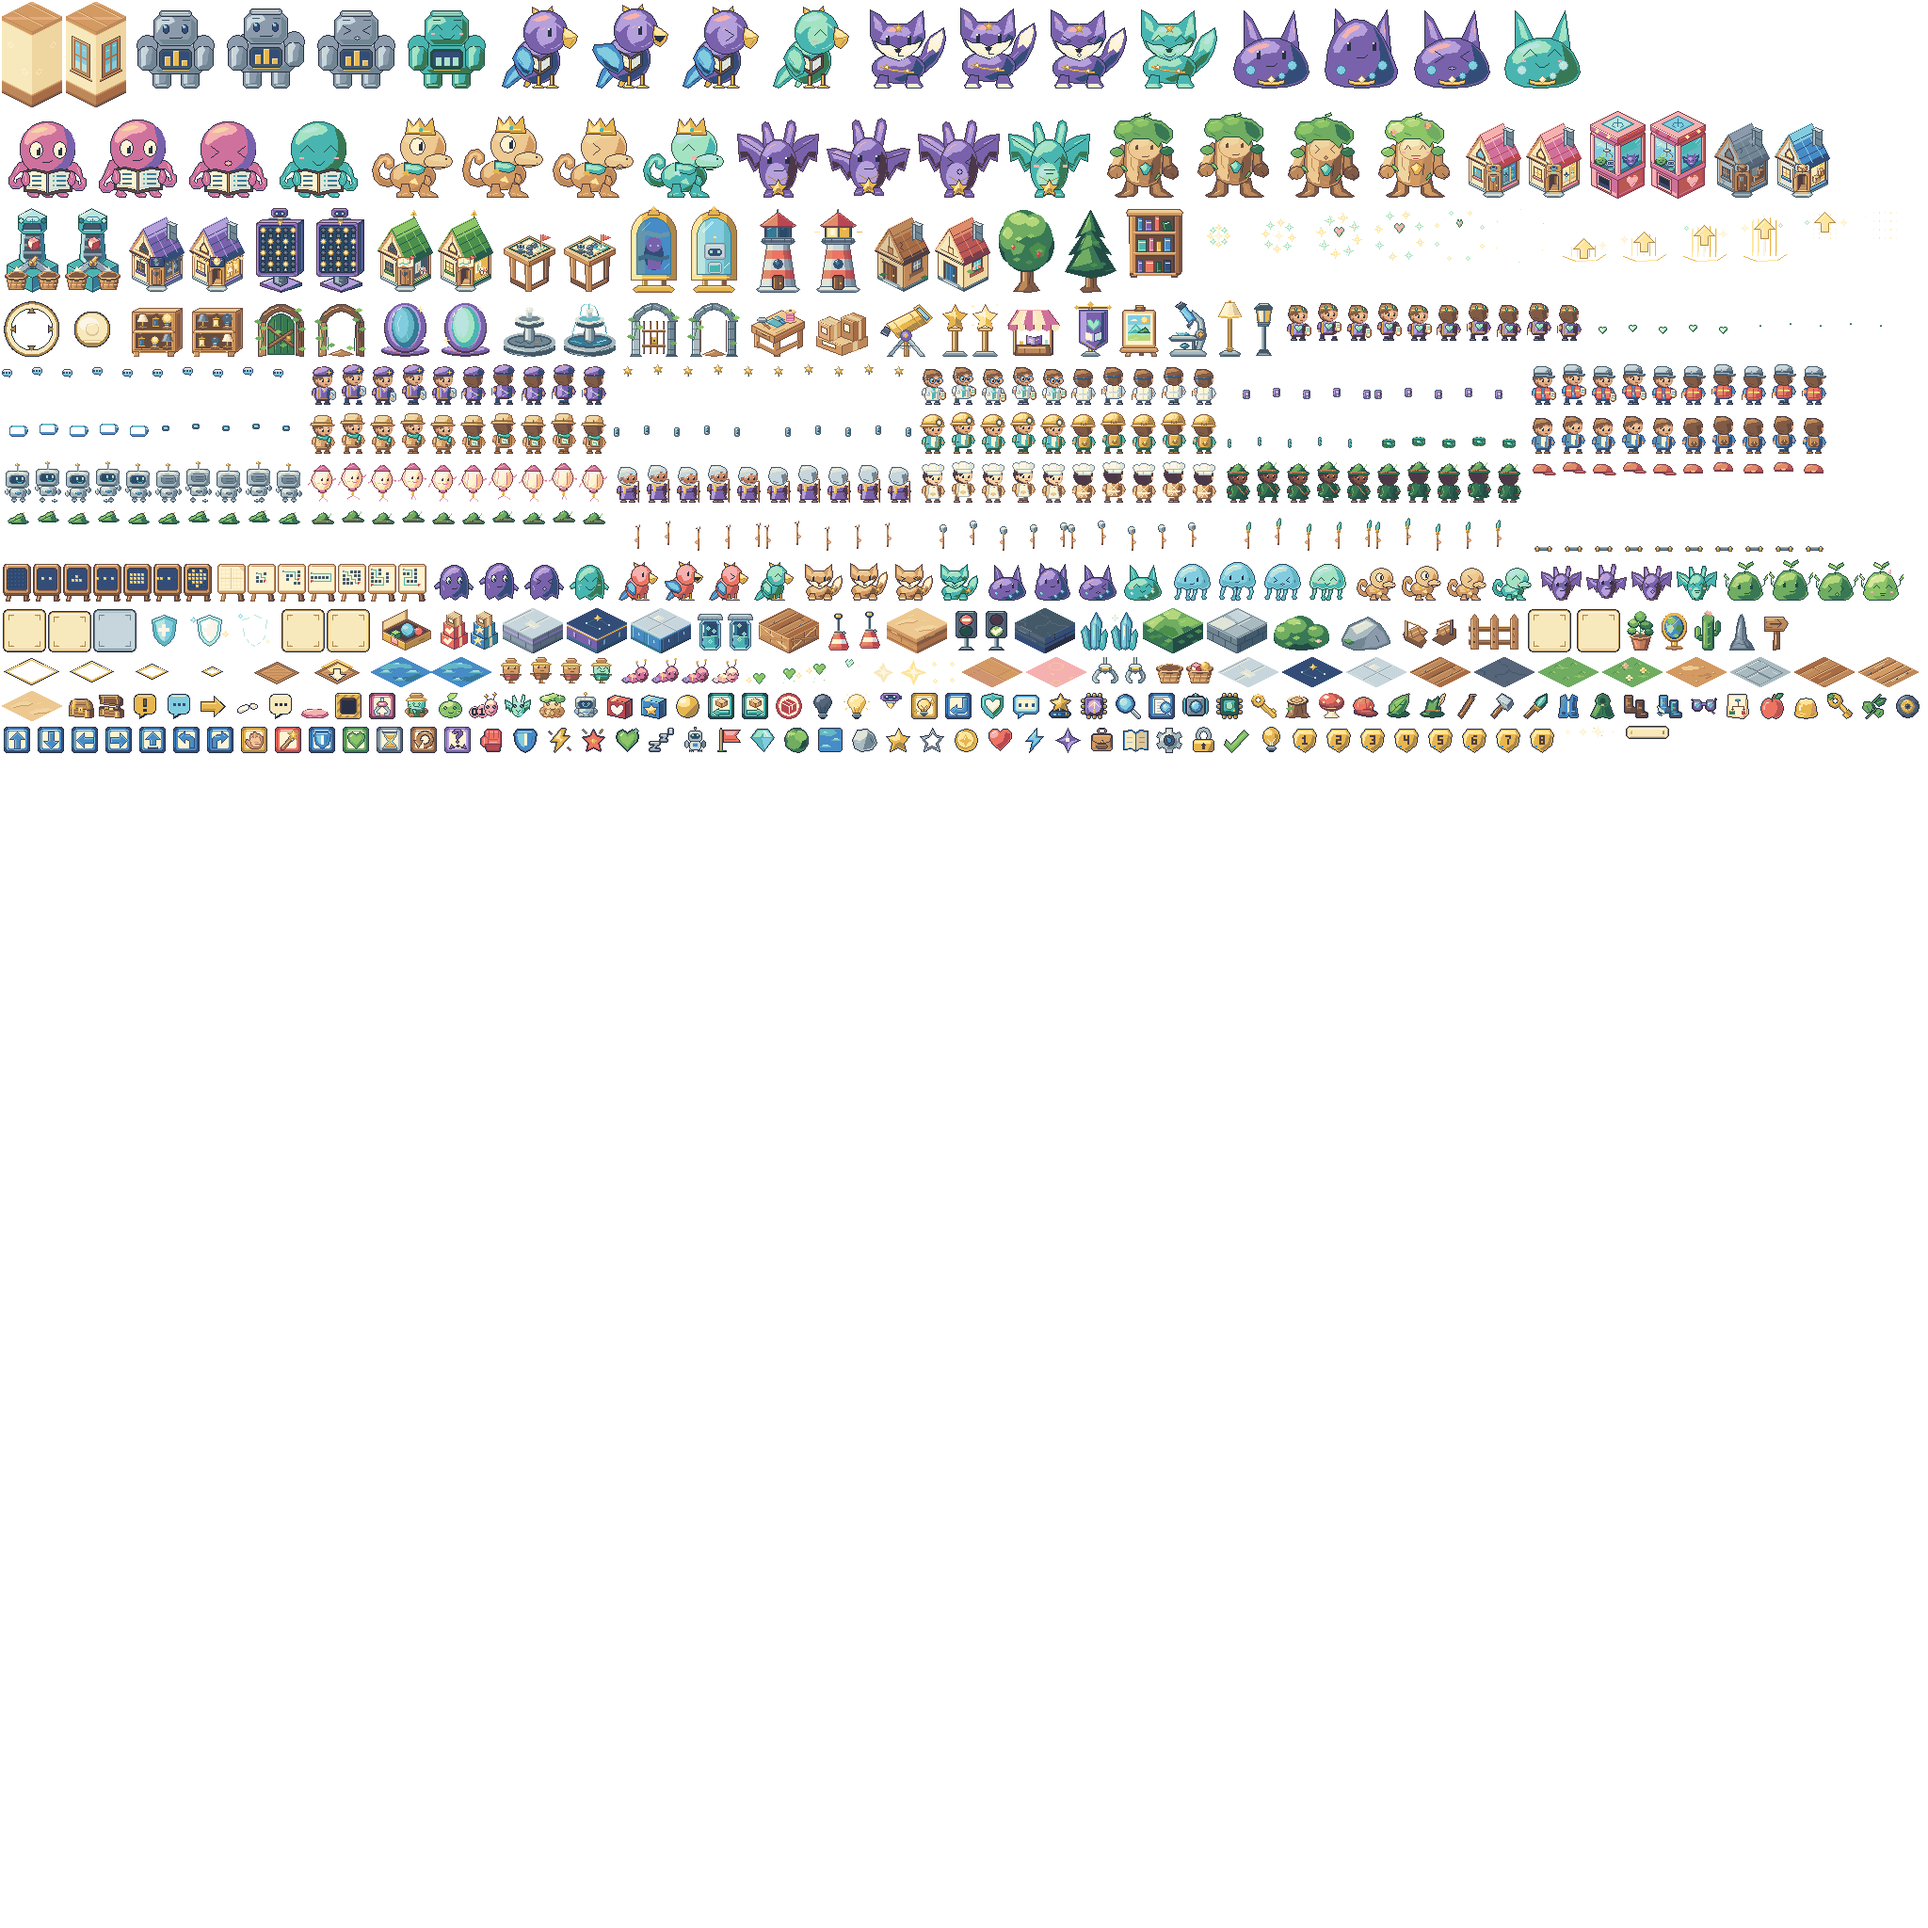
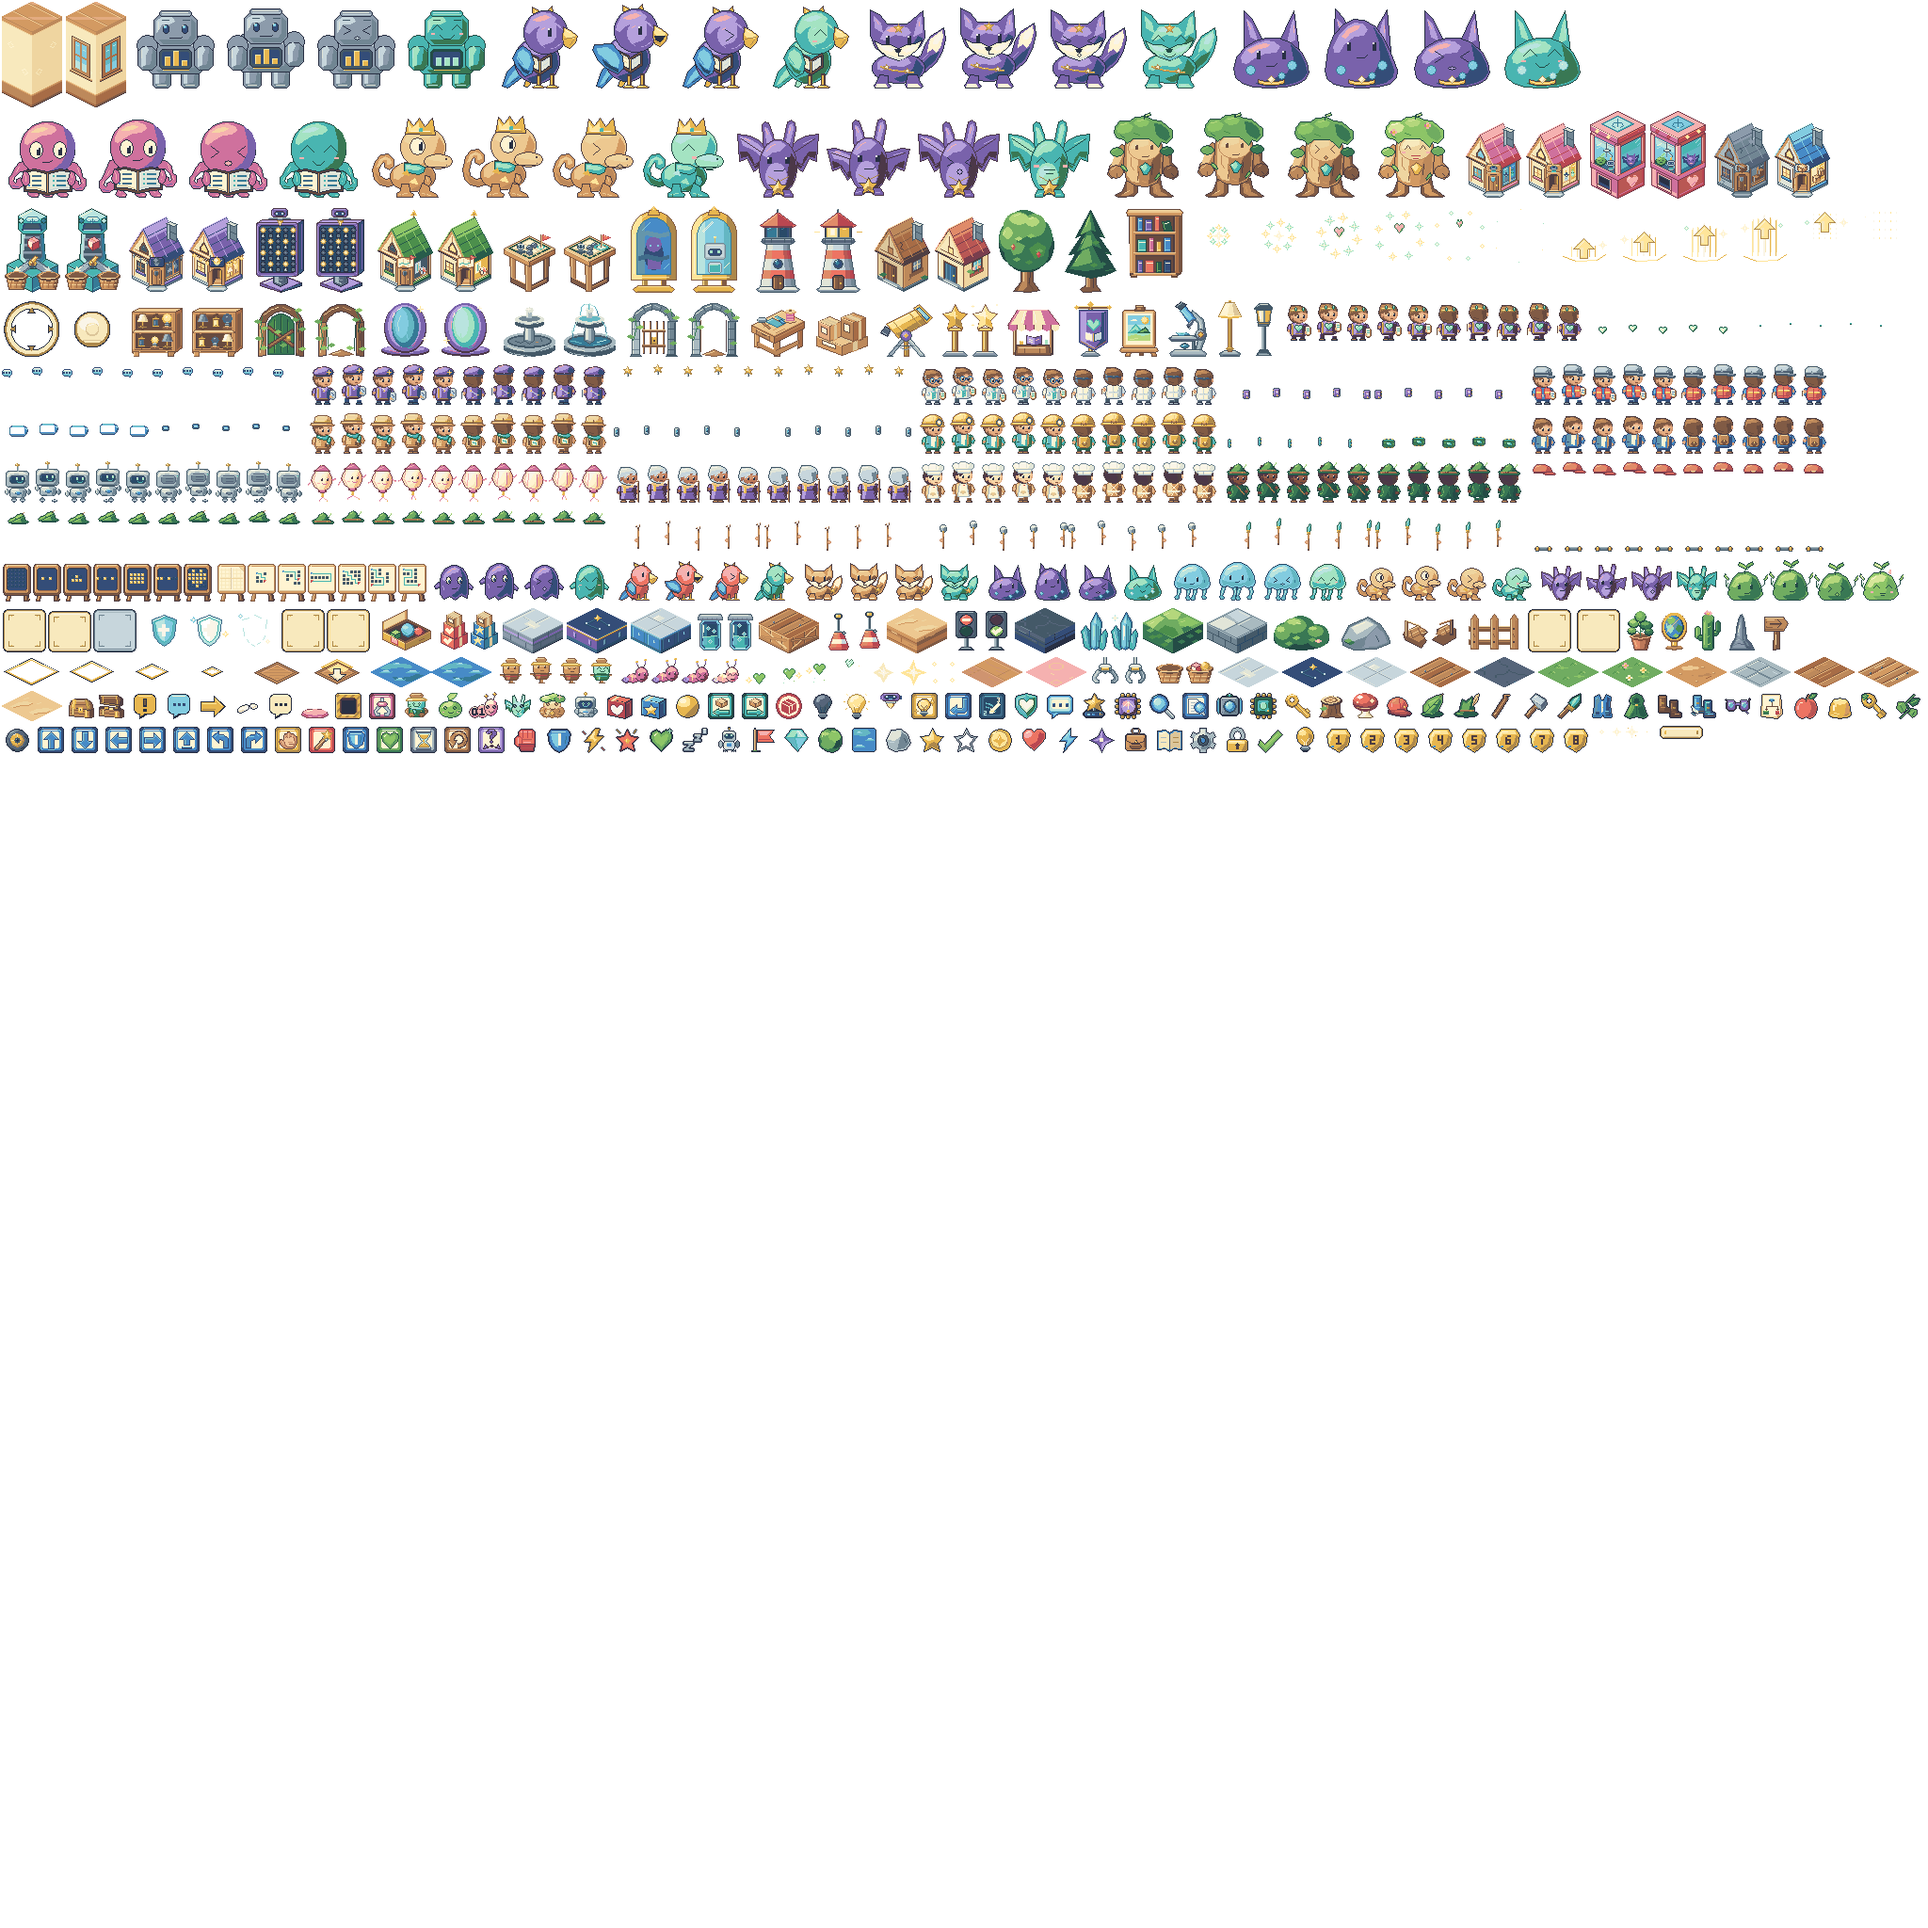
C18-2: 물결 따라가기 카드 2배 그림

Changed region(s): [[0.125, 0.3438, 1.0, 0.4062], [0.0, 0.375, 0.0312, 0.4062]]

diff --git a/docs/tasks/codex-18-progress.md b/docs/tasks/codex-18-progress.md
@@ -28,3 +28,31 @@
 재생성: `node assets-src/tools/draw-c18-1-house.mjs` → `node assets-src/tools/draw-c18-1-furniture.mjs` → `node assets-src/tools/draw-c18-1-maps.mjs` → `npm run assets` → `node assets-src/tools/preview-c18.mjs 1` → `node assets-src/tools/check-c18.mjs 1`.
 
 브라우저 증거: `C:/Users/tbose/.codex/visualizations/2026/11/04/01a1a6c9-8349-7712-84d3-50667c5011e1/output/playwright/`의 `c18-stage1-*`, `c18-gallery-1-result.txt`.
+
+## 2단계 — 물결 따라가기 카드
+
+- 완료 **1키·1프레임** `icon-card-followWave` 32×32·density 2. C18 합계 **5키·13프레임**, 남은 키 없음.
+- 기존 카드와 같은 2px 여백·둥근 테두리에 짙은 바다색 속면을 사용했어요. 물결의 중심인 작은 2 쪽으로 큰 3에서 화살표가 향해요. 숫자가 작아도 두 고리와 굵은 밝은 화살표가 남아요.
+- 팔레트에 없는 편집기 색 `#1f6f8b` 대신 원본에는 기존 `#294a68`, `#406c8a`, `#367a96`, `#64b7c3`를 사용했어요. 기존 화살표의 파랑/밝은 속면, 보내기의 청록/상자, 켜기의 노랑/전구와 구분해요. 추가 색 요청 없음.
+- `npm run assets`, `npm test` **27파일·359개**, `npm run build`, `node assets-src/tools/check-c18.mjs 2` 통과. 새 5키 원본→PNG **37,888픽셀**, 전체 PNG→아틀라스 **1,345,280픽셀 일치**. 지도 122칸/최단 거리 검사와 발밑 투명 검사도 유지해요.
+- 전체 **232키·586프레임 모두 density 2**, 원본 누락 0, 팔레트 64색, 아틀라스 **2048×2048** 한 장. 갤러리 651이미지의 크기/원점 오류 0, 페이지 오류 0.
+- 비교판 `assets-preview/compare-18-2.png`: 왼쪽 임시/오른쪽 새 그림, 실제 블록 바탕색 4종 위 화살표·보내기·켜기·물결 카드의 64px/28px 나란히 비교. 1단계 방 비교판도 그대로 있어요. 모두 커밋 제외 경로예요.
+- 실제 편집기 버튼으로 **6판 모두 별 3개 성공** 확인. 1·2판 화살표 4/6개, 3판 오른쪽5·아래2·왼쪽5 반복(6블록), 4판 오른쪽·아래 4회 반복(3블록), 5판 물결 따라가기 10회 반복(2블록), 6판 12회 반복(2블록)으로 미로 3개 모두 성공했어요.
+- 실제 성공으로 벽 지도 1~6프레임과 `물결 길잡이` 칭호를 얻었어요. 새로고침·이어하기 뒤 6판 별3개/지도 플래그/칭호 복원, 경험치·코인 0 유지 확인.
+- 해금은 지시서가 허용한 메모리 칩·예측 모듈을 5176 로컬 체험에 넣었어요. 학습 미션을 자연 진행하거나 학급 서버 저장을 검증한 것은 아니에요.
+- 5·6판 × 320/390/1360px **6조합**: 카드 실제28×28, 원본32×32, 배경 `rgb(31,111,139)`, 그림 로드 정상, 문서 가로 넘침 0. 좁은 화면에서 카드 행은 줄바꿈하고 세로 스크롤해요. 실물 휴대폰 검증은 아니에요. 페이지 오류 0.
+- 첫 자동화 실행은 버튼 이름을 `오른쪽`으로 찾다가 시간 초과했어요. 실제 UI 이름 `오른쪽으로` 등으로 자동화만 고친 뒤 6판 검사가 모두 통과했어요. 제품 코드는 수정하지 않았어요.
+- Claude 확인: 28px에서 두 물결 고리와 작은 숫자의 가독성, 기존 보내기 카드와 구분, 실제 휴대폰에서 지도 경로/탁자 물결 식별. 숫자보다 고리와 방향을 먼저 읽도록 균형을 맞췄어요.
+- 카드는 맵 그림자·불빛 대상이 아니에요. 소품은 1단계 표의 기존 설정 유지. 필요한 범위 밖 코드 변경 없음.
+
+재생성: `node assets-src/tools/draw-c18-2-card.mjs` → `npm run assets` → `node assets-src/tools/preview-c18.mjs 2` → `node assets-src/tools/check-c18.mjs 2`.
+
+브라우저 증거는 위 캡처 폴더의 `c18-r1-program.png`~`c18-r6-program.png`, `c18-r1-success.png`~`c18-r6-success.png`, `c18-r5-320.png` 등, `c18-stage2-play-result.txt`, `c18-persist-result.txt`, `c18-gallery-2-result.txt`에 있어요.
+
+## 최종 전달
+
+- 1단계 커밋 **`3f4da5f`** — 지도방 건물과 방 소품 2배 그림.
+- 2단계는 이 기록을 포함하는 `C18-2: 물결 따라가기 카드 2배 그림` 커밋이에요.
+- 지시서가 허용한 새 원본·참고 임시 그림·전용 도구·생성물·이 기록만 변경했어요. 공용 생성기와 엔진·계약·팔레트·미로 데이터·기존 테스트·설정은 변경하지 않았어요.
+- main·push·머지·배포·브랜치 전환은 하지 않았어요. 검토용 5176 C18 서버(PID 23108)와 브라우저는 종료했어요.
+- 남은 후속: Claude의 미감 검토, 실물 휴대폰/자연 해금 진행 확인, 검토 후 통합·배포 및 배포본 점검. 미완성 그림이나 발견된 필수 엔진 수정은 없어요.
